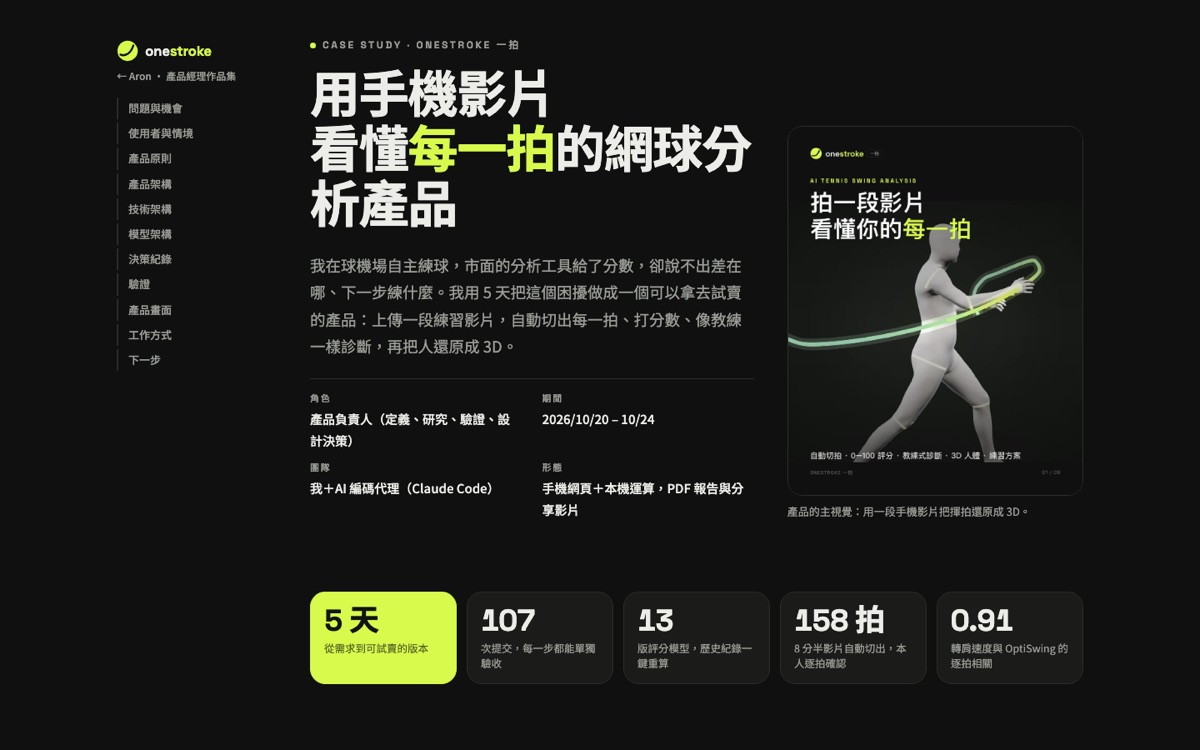
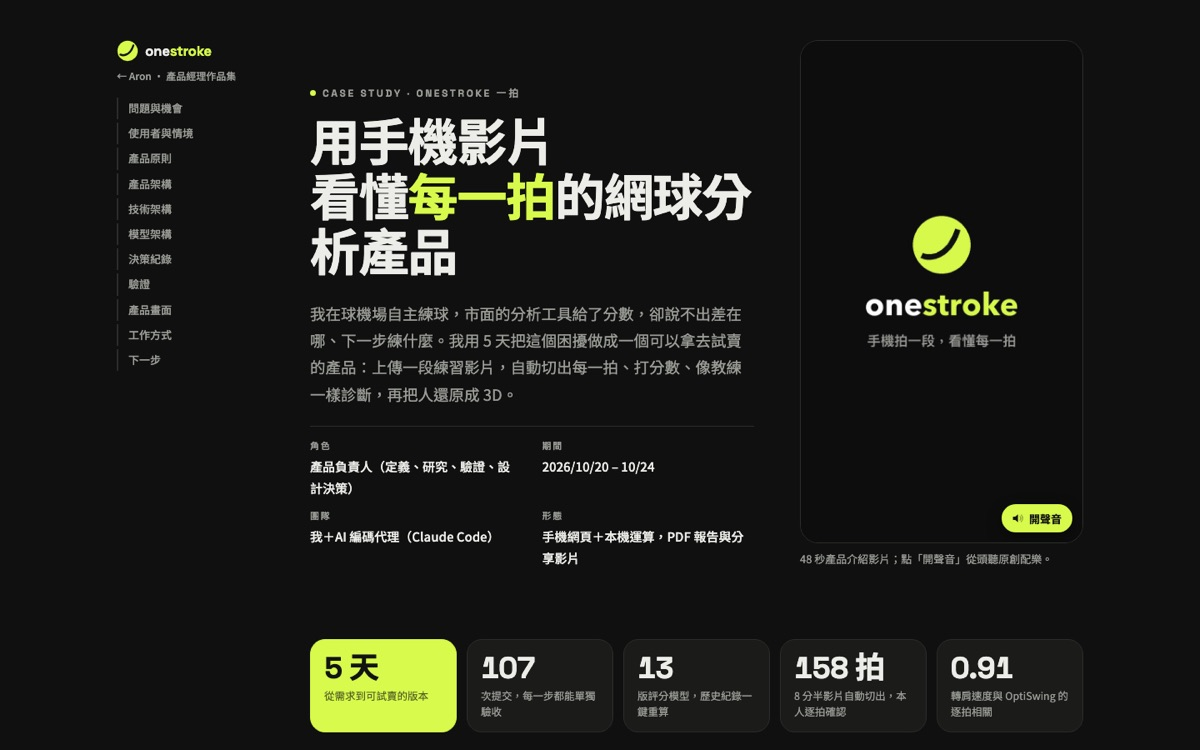
作品集加入 Daybreak 產品案例
- 作品集第二篇：Daybreak 產品案例（north7.github.io/portfolio/daybreak/），附 11 個章節連結
- Daybreak 色場多了「作品集」按鈕；索引新增 12 個入口；時間軸加一筆里程碑
- 作品集超過三篇時自動排成 2×2
- 個人作品集年資改為 13 年；重拍 OneStroke 案例與個人作品集封面
- 分享圖更新為 133 個入口

diff --git a/data/lab.js b/data/lab.js
@@ -71,6 +71,7 @@ window.LAB = {
         { n: '09', t: '方法', u: '#method' },
       ],
       links: [
+        { t: '產品案例：每天 08:30 出刊的比特幣簡報', u: 'https://north7.github.io/portfolio/daybreak/', type: 'case' },
         { t: 'X 發文小幫手', u: 'post.html', type: 'tool' },
         { t: '今日分享圖（中文）', u: 'data/share.png', type: 'data' },
         { t: '今日分享圖（English）', u: 'data/share-en.png', type: 'data' },
@@ -284,6 +285,20 @@ window.LAB = {
       ],
     },
     {
+      id: 'daybreak-case', product: 'daybreak',
+      title: '每天 08:30 出刊、會自己追蹤對錯的比特幣簡報',
+      sub: 'Daybreak 產品案例',
+      desc: '把 15 個免費資料源變成每日簡報：程式算數字、AI 只負責解釋、出場規則寫死；「今日發現」寫下可檢驗的判斷，隔天自動對答案。18 期連續出刊，資料與主機成本 0 元。',
+      meta: [['角色', '產品負責人（個人專案）'], ['期間', '2026/09/22 – 10/23'], ['實作', 'Claude Code 實作 · GitHub Actions 資料管線']],
+      url: 'https://north7.github.io/portfolio/daybreak/',
+      cover: 'assets/covers/daybreak-case.jpg',
+      chapters: [
+        ['一頁看完', '#tldr'], ['問題與使用者', '#problem'], ['產品原則', '#principles'], ['三層分工', '#system'],
+        ['決策與取捨', '#decisions'], ['今日發現', '#findings'], ['迭代', '#timeline'], ['分發與成長', '#distribution'],
+        ['品質與風險', '#quality'], ['指標與下一步', '#next'], ['學到的事', '#learnings'],
+      ],
+    },
+    {
       id: 'onestroke-case', product: 'onestroke',
       title: '用手機影片看懂每一拍',
       sub: 'OneStroke 產品案例',
@@ -296,7 +311,7 @@ window.LAB = {
       id: 'portfolio', product: null,
       title: 'Beyond Logic. Pure Intuition.',
       sub: 'Aron Song 個人作品集',
-      desc: '產品架構師，11 年 Web3 金融科技與 AI 領域，專注於 0 到 1 的架構設計與商業落地。',
+      desc: '產品架構師，13 年 Web3 與 AI 領域，專注於 0 到 1 的架構設計與商業落地。',
       meta: [['角色', 'Product Architect'], ['領域', 'Web3 · AI 產品 · DeFi'], ['內容', '理念、作品、經歷']],
       url: 'https://north7.github.io/portfolio/',
       cover: 'assets/covers/portfolio.jpg',
@@ -314,6 +329,7 @@ window.LAB = {
     { d: '2026-10-22', p: 'signals', t: '寫定紙上交易評估與實盤停用規則（RULES.md）' },
     { d: '2026-10-22', p: 'onestroke', t: '揮拍分析流程完成：切拍、姿態、評分、自動寫分析' },
     { d: '2026-10-23', p: 'daybreak', t: '頭版新增「今日發現」：每日自動偵測異動與關鍵節點' },
+    { d: '2026-10-24', p: 'daybreak', t: '產品案例上線：三層分工、決策紀錄與「今日發現」的完整紀錄' },
     { d: '2026-10-24', p: 'onestroke', t: '球員分開管理；產品案例頁上線' },
     { d: '2026-10-24', p: 'onestroke', t: '宣傳素材：直式宣傳影片、9 張產品說明圖與總覽海報' },
     { d: '2026-10-24', p: null, t: 'Aron Lab 上線：所有作品的入口與索引' },

diff --git a/assets/app.css b/assets/app.css
@@ -162,9 +162,8 @@ a.ir:hover .go2 { transform: translate(3px, -3px); }
 
 /* ── 作品集（赭黃色場） ── */
 .cases-sec { background: var(--cases-bg); }
-.cases { display: grid; grid-template-columns: repeat(3, minmax(0, 1fr)); gap: 0; }
-.case { background: var(--t1); border-right: 3px solid var(--cases-bg); display: flex; flex-direction: column; }
-.case:last-child { border-right: 0; }
+.cases { display: grid; grid-template-columns: repeat(var(--cols, 3), minmax(0, 1fr)); gap: 3px; }
+.case { background: var(--t1); display: flex; flex-direction: column; }
 .case .cv { display: block; aspect-ratio: 16/10; background: var(--t2); overflow: hidden; position: relative; }
 .case .cv img { width: 100%; height: 100%; object-fit: cover; object-position: left top; mix-blend-mode: multiply; filter: grayscale(.6); transition: filter .6s, mix-blend-mode .6s; }
 .case:hover .cv img { filter: none; mix-blend-mode: normal; }
@@ -272,7 +271,6 @@ button.m-item:hover img { transform: scale(1.02); }
 @media (max-width: 1100px) {
   .ir { grid-template-columns: 170px minmax(0, 1.4fr) 96px minmax(0, 1fr) 20px; }
   .cases { grid-template-columns: 1fr; }
-  .case { border-right: 0; border-bottom: 3px solid var(--cases-bg); }
 }
 @media (max-width: 860px) {
   :root { --gut: 20px; }

diff --git a/assets/app.js b/assets/app.js
@@ -190,6 +190,9 @@
   renderIndex();
 
   // ── 作品集 ──
+  // 欄數：3 篇以內一排放完；4 篇排成 2×2，避免最後一排只剩一張
+  const nw = L.works.length;
+  $('case-list').style.setProperty('--cols', nw <= 3 ? nw : nw % 3 === 1 ? 2 : 3);
   $('case-list').innerHTML = L.works.map((w) => {
     const p = byId[w.product] || ME;
     const ch = (w.chapters || []).map(([t, h]) => `<a href="${abs(w.url, h)}" target="_blank" rel="noopener">${esc(t)}</a>`).join('');
